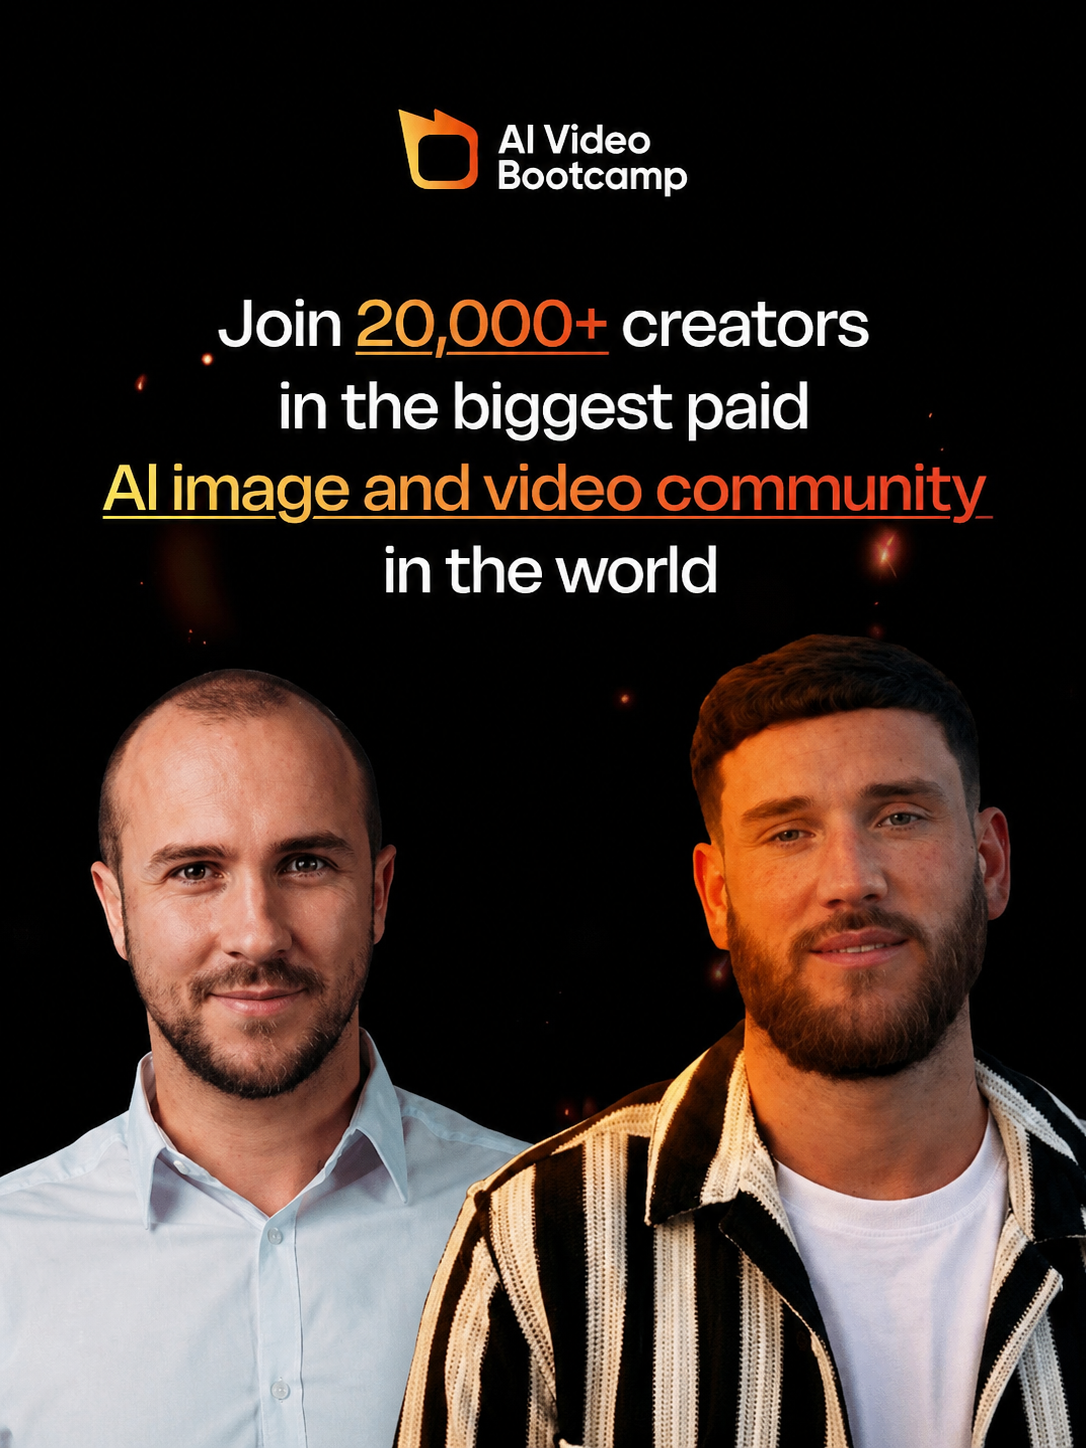
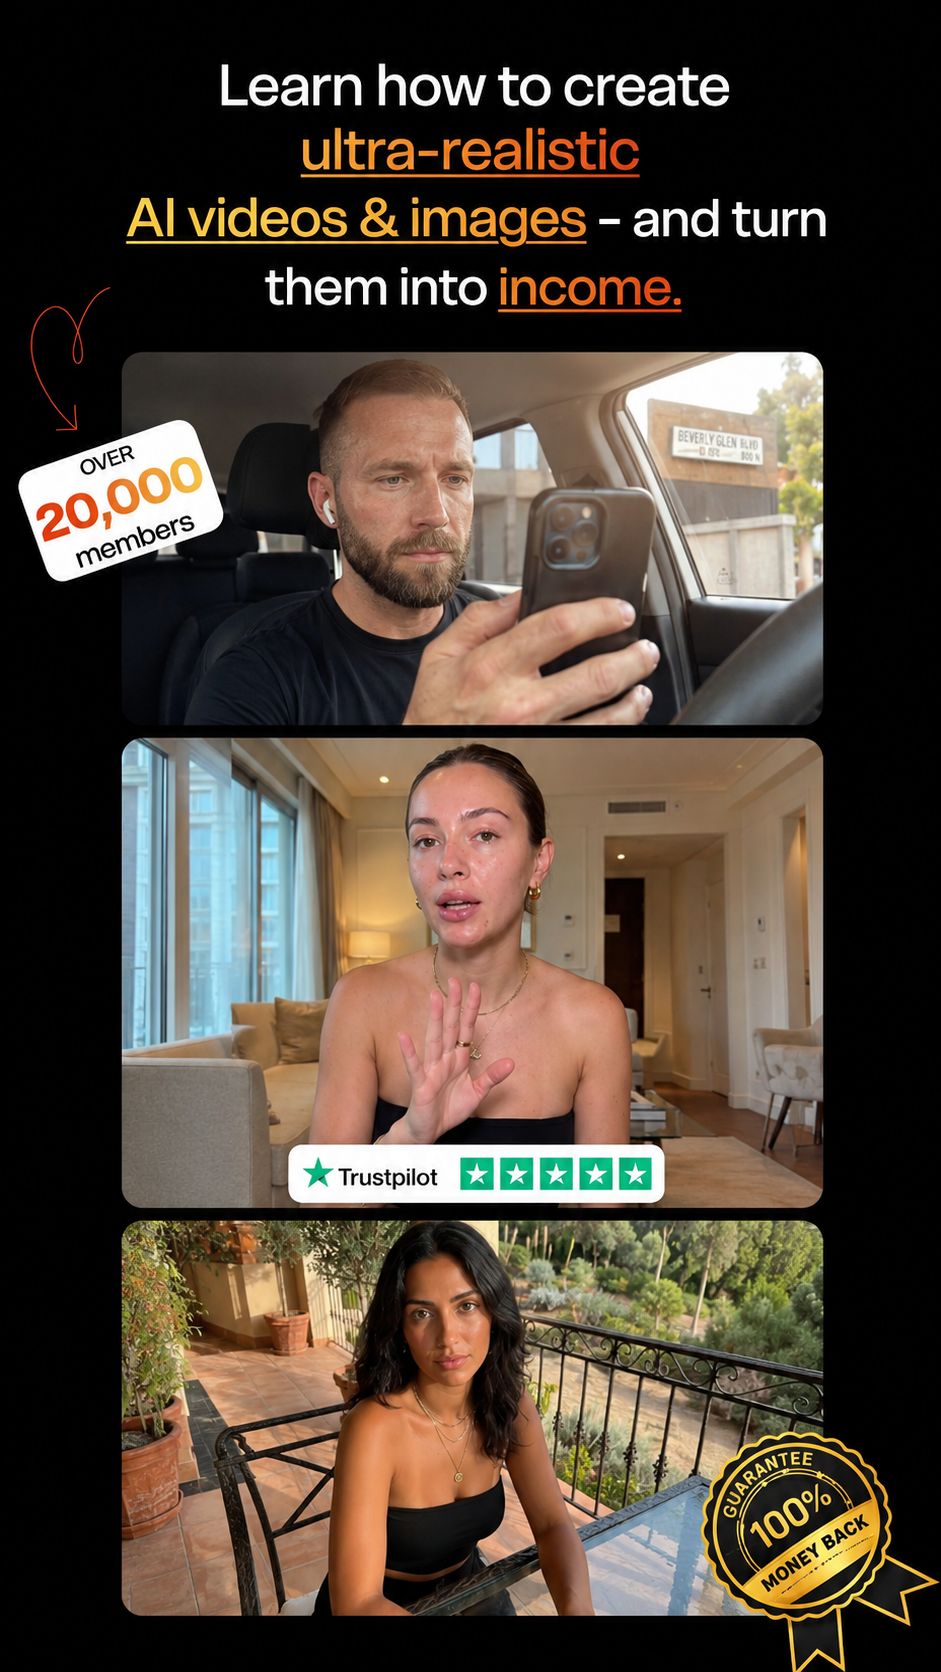
Mobile polish + analytics opt-out: one-line stats title, animate 60%+ stat, new Bootcamp photos (mobile/desktop), Avatarsco brand stamp on hero videos, per-device analytics opt-out (?analytics=off)

diff --git a/style.css b/style.css
@@ -601,6 +601,27 @@ body::after {
   -webkit-user-select: none;
   -webkit-touch-callout: none;
 }
+/* Mobile-only brand stamp centered at the bottom of each hero video */
+.hero-video-stamp {
+  display: none;
+  position: absolute;
+  bottom: 12px;
+  left: 50%;
+  transform: translateX(-50%);
+  z-index: 2;
+  font-family: var(--font-u);
+  font-size: 10px;
+  font-weight: 700;
+  letter-spacing: 0.14em;
+  text-transform: uppercase;
+  color: var(--ink);
+  text-shadow: 0 1px 3px rgba(0, 0, 0, 0.55);
+  pointer-events: none;
+  white-space: nowrap;
+}
+@media (max-width: 768px) {
+  .hero-video-stamp { display: block; }
+}
 .hero-video-badge {
   position: absolute;
   top: 10px;

diff --git a/entry-gate.js b/entry-gate.js
@@ -52,10 +52,29 @@
     return out;
   }
 
+  // ── Self-exclusion: opt THIS device out of analytics entirely ───────────
+  // Visit  ?analytics=off  once on any device/browser to permanently exclude it
+  // (stored locally, survives future visits). Visit  ?analytics=on  to re-enable.
+  var OPTOUT_KEY = 'avatarsco_no_analytics';
+  function isOptedOut() {
+    try { return localStorage.getItem(OPTOUT_KEY) === '1'; } catch (e) { return false; }
+  }
+  (function handleOptOut() {
+    var a = getParams().analytics;
+    if (a === 'off') {
+      try { localStorage.setItem(OPTOUT_KEY, '1'); } catch (e) {}
+      try { alert('Analytics is now OFF on this device. Your visits will not be counted.'); } catch (e) {}
+    } else if (a === 'on') {
+      try { localStorage.removeItem(OPTOUT_KEY); } catch (e) {}
+      try { alert('Analytics is now ON on this device.'); } catch (e) {}
+    }
+  })();
+
   // ── PostHog loader (only runs if a key is set) ──────────────────────────
   var phInited = false;
   function initAnalytics() {
     if (phInited) return;
+    if (isOptedOut()) return;
     if (!ANALYTICS.enabled || !ANALYTICS.posthogKey) return;
     if (ANALYTICS.requireConsent && !consentAccepted()) return;
     // Official PostHog stub snippet — queues calls until the library loads.

diff --git a/index.html b/index.html
@@ -26,7 +26,7 @@
   <link rel="preconnect" href="https://fonts.googleapis.com">
   <link rel="preconnect" href="https://fonts.gstatic.com" crossorigin>
   <link href="https://fonts.googleapis.com/css2?family=Nunito:wght@900&family=Syne:wght@400;600;700;800&family=Space+Mono:wght@400;700&family=Jost:wght@300;400&display=swap" rel="stylesheet">
-  <link rel="stylesheet" href="style.css?v=121">
+  <link rel="stylesheet" href="style.css?v=122">
 
   <!-- Organization schema: tells Google the business, its logo, and that
        "Avatarsco" and "Avatars and Co" are the same entity. -->
@@ -184,7 +184,7 @@
           <span class="hl-thin hl-internet">internet</span>
         </span>
       </h1>
-      <h2 class="stats-title-block">AI is Not<br>Just a Trend</h2>
+      <h2 class="stats-title-block">AI is Not Just a Trend</h2>
       <!-- Hero showcase: large push-transition photo slideshow -->
       <div class="hero-showcase" id="hero-showcase-feat">
         <div class="showcase-nums" id="showcase-nums">
@@ -290,7 +290,7 @@
               <span class="stat-label">Engagement vs. Human</span>
             </div>
             <div class="hero-stat">
-              <span class="stat-num">60%+</span>
+              <span class="stat-num" data-count="60" data-from="0" data-suffix="%+" data-decimals="0" data-duration="1800">60%+</span>
               <span class="stat-label">Brands Adopting AI Personas</span>
             </div>
           </div>
@@ -301,10 +301,12 @@
           <div class="hero-video">
             <video src="assets/Video%20(for%20column)/AI-Avatar-Video.mp4" poster="assets/Video%20(for%20column)/AI-Avatar-Video.jpg" autoplay muted loop playsinline preload="auto" disablepictureinpicture></video>
             <span class="hero-video-badge"><span class="badge-txt">AI<br>Video</span></span>
+            <span class="hero-video-stamp">Avatarsco</span>
           </div>
           <div class="hero-video">
             <video src="assets/Video%20(for%20column)/AI-Avatar-Video-1.mp4" poster="assets/Video%20(for%20column)/AI-Avatar-Video-1.jpg" autoplay muted loop playsinline preload="auto" disablepictureinpicture></video>
             <span class="hero-video-badge"><span class="badge-txt">AI<br>Video</span></span>
+            <span class="hero-video-stamp">Avatarsco</span>
           </div>
         </div>
       </div>
@@ -519,8 +521,8 @@
           </div>
           <div class="recommend-img">
             <picture>
-              <source media="(max-width: 560px)" srcset="assets/Web%20Photo%20Gallery/AI-VB.jpg">
-              <img src="assets/Web%20Photo%20Gallery/AI-VB-Resized.png" alt="AI Video Boot Camp community" loading="lazy">
+              <source media="(max-width: 560px)" srcset="assets/Web%20Photo%20Gallery/AI-VB.jpeg">
+              <img src="assets/Web%20Photo%20Gallery/AI-VB-Resized.png?v=2" alt="AI Video Boot Camp community" loading="lazy">
             </picture>
           </div>
         </a>
@@ -970,7 +972,7 @@
   </script>
 
   <!-- Entry gate (first-visit interstitial + analytics) -->
-  <script src="entry-gate.js?v=6" defer></script>
+  <script src="entry-gate.js?v=7" defer></script>
 
 </body>
 </html>